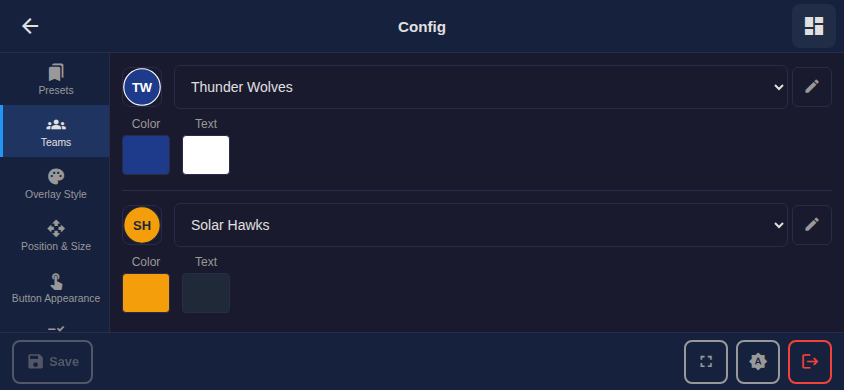
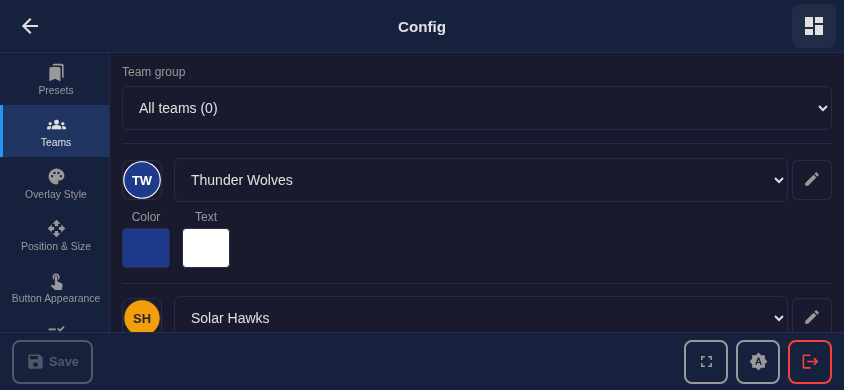
Team groups: harden 0007 migration + ConfigPanel fetch; refresh screenshot
Adversarial review of the previous commit found 0 blocker/high/medium and 2 low
hardening items; both applied:
- 0007 migration: JOIN teams in the roster data step so an already-orphaned
  user_team_list row (only reachable on a pre-corrupted DB with FK enforcement
  off) is dropped instead of copied into user_group_teams.
- ConfigPanel: gate the team-options fetch on a `groupsLoaded` flag so a board
  with a non-null group remembered no longer first fetches the "All" teams
  (removes a wasted request and a brief team-name autocomplete flicker on mount).

Cross-user isolation and board-control authorization passed the review with no
findings. Refreshed docs/screenshots/04-config-panel.png to show the group
picker. 697 frontend + backend migration/teams tests green; tsc/eslint clean.

diff --git a/frontend/src/components/ConfigPanel.tsx b/frontend/src/components/ConfigPanel.tsx
@@ -184,6 +184,9 @@ export default function ConfigPanel({
   const [predefinedTeams, setPredefinedTeams] = useState<PredefinedTeams>({});
   const [teamGroups, setTeamGroups] = useState<api.BoardGroup[]>([]);
   const [selectedGroupId, setSelectedGroupId] = useState<number | null>(null);
+  // Gates the team-options fetch until the remembered selection is known, so a
+  // board with a non-null group remembered doesn't first fetch "All" teams.
+  const [groupsLoaded, setGroupsLoaded] = useState(false);
   const [styles, setStyles] = useState<string[]>([]);
   const [styleCaps, setStyleCaps] = useState<Record<string, api.StyleCapabilities>>({});
   const [links, setLinks] = useState<LinksData>(null);
@@ -192,6 +195,7 @@ export default function ConfigPanel({
 
   useEffect(() => {
     let cancelled = false;
+    setGroupsLoaded(false);
     // The team picker is group-scoped: load the owner's groups (+ remembered
     // selection); a second effect fetches the chosen group's teams.
     api
@@ -200,6 +204,7 @@ export default function ConfigPanel({
         if (cancelled) return;
         setTeamGroups(d.groups);
         setSelectedGroupId(d.selected_id);
+        setGroupsLoaded(true);
       })
       .catch(console.warn);
     api
@@ -225,8 +230,10 @@ export default function ConfigPanel({
     };
   }, [oid]);
 
-  // Re-fetch the team options whenever the selected group changes.
+  // Fetch the team options for the selected group — but only once the groups
+  // (and the remembered selection) have loaded, then on every later change.
   useEffect(() => {
+    if (!groupsLoaded) return undefined;
     let cancelled = false;
     api
       .getBoardGroupTeams(oid, selectedGroupId)
@@ -237,7 +244,7 @@ export default function ConfigPanel({
     return () => {
       cancelled = true;
     };
-  }, [oid, selectedGroupId]);
+  }, [oid, selectedGroupId, groupsLoaded]);
 
   const handleSelectGroup = useCallback(
     (id: number | null) => {

diff --git a/migrations/versions/0007_team_groups_primary.py b/migrations/versions/0007_team_groups_primary.py
@@ -91,10 +91,14 @@ def _migrate_rosters_to_private_groups() -> None:
     dialect-agnostic (SELECT-back of the new id rather than ``lastrowid``).
     """
     bind = op.get_bind()
+    # JOIN teams so an already-orphaned roster row (a team_id with no team — only
+    # reachable if the source DB was corrupted with FK enforcement off) is
+    # dropped rather than copied into the new table.
     rows = bind.execute(
         sa.text(
-            "SELECT user_id, team_id, sort_order FROM user_team_list "
-            "ORDER BY user_id, sort_order, id"
+            "SELECT utl.user_id, utl.team_id, utl.sort_order FROM user_team_list utl "
+            "JOIN teams t ON t.id = utl.team_id "
+            "ORDER BY utl.user_id, utl.sort_order, utl.id"
         )
     ).fetchall()
     by_user: dict[int, list[tuple[int, int]]] = defaultdict(list)

diff --git a/CHANGELOG.md b/CHANGELOG.md
@@ -29,6 +29,7 @@ once a first tagged release ships.
   - A new `0007` migration copies each user's previous team list into a private
     **"My teams"** group so nothing is lost (the legacy `user_team_list` table is
     kept as a rollback safety net). New accounts are seeded the same way.
+  - Refreshed `docs/screenshots/04-config-panel.png` to show the group picker.
 
 - **Admin team catalog & group manager on its own page.** Global team
   authoring moved off the user's **Teams** page to a dedicated, admin-only